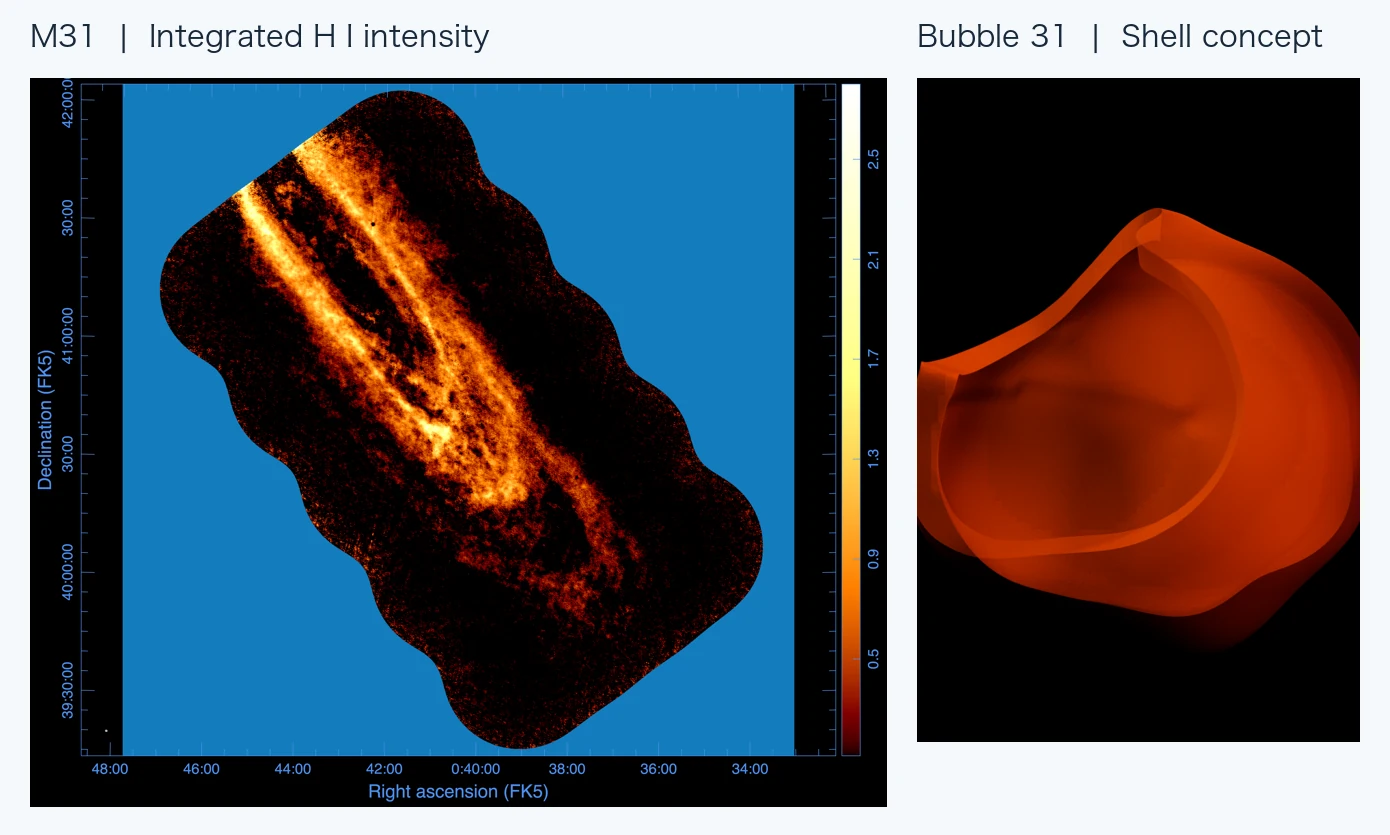
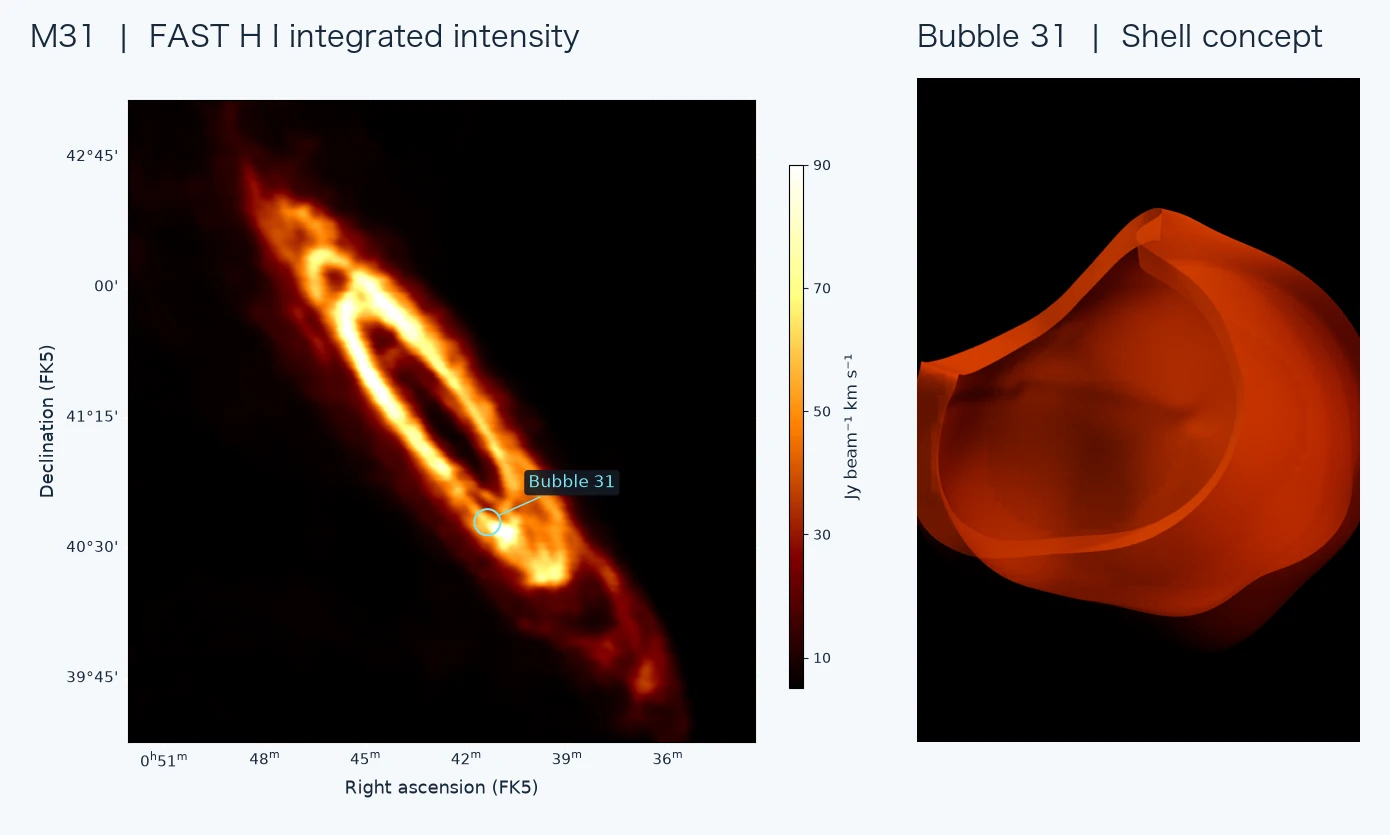
Use a FAST-only M31 locator map in the visualization spec

diff --git a/docs/m31-hi-visualization/README.md b/docs/m31-hi-visualization/README.md
@@ -1,14 +1,12 @@
 # Visualizing M31 H I superbubbles in 3D
 
-*Collaboration specification for the Bailes team · English discussion draft · 12 November 2026*
-
 The prototype is an interactive 3D viewer. A viewer should be able to locate a superbubble on an M31 H I map, open its local position–position–velocity (PPV) scene, and move freely around the shell to inspect it from the sides, above and below. The viewer can zoom into a feature, clip through the cavity and check it against the observed channels. Bubble 31 and Bubble 104 are the first examples. For each object, the viewer should be able to switch between the cavity inner wall and the outer bright ridge while keeping the current viewpoint.
 
-![M31 integrated H I intensity and the early Bubble 31 shell concept](figures/01-m31-and-bubble31.webp)
+![FAST H I integrated intensity of M31 with Bubble 31 marked, beside its early shell concept](figures/01-m31-and-bubble31.webp)
 
-**Figure 1. From the galaxy map to the shell.** The left panel is an integrated H I intensity map of M31, shown in CARTA. Blue marks the area outside the displayed coverage. The right panel is an early Blender concept for Bubble 31. Projected emission guides its detail, while the shell depth and cutaway are set for the illustration. The two panels use independent framing. In the prototype, the locator on the galaxy map comes from the catalogue position and the map world coordinate system (WCS). [Figure provenance](figure-sources.md#figure-1-m31-map-and-bubble-31-concept)
+**Figure 1. From the galaxy map to the shell.** The left panel shows the FAST-only integrated H I intensity of M31. The cyan circle marks the catalogue centre of Bubble 31. The right panel is an early Blender concept for Bubble 31. Projected emission guides its detail, while the shell depth and cutaway are set for the illustration. The two panels use independent framing. In the prototype, the locator on the galaxy map comes from the catalogue position and the map world coordinate system (WCS). [Figure provenance](figure-sources.md#figure-1-m31-map-and-bubble-31-concept)
 
-[中文讨论稿](README.zh-CN.md) · [Figure provenance and historical implementation](figure-sources.md)
+[中文](README.zh-CN.md) · [Figure provenance and historical implementation](figure-sources.md)
 
 ## Scope and interfaces
 

diff --git a/docs/m31-hi-visualization/README.zh-CN.md b/docs/m31-hi-visualization/README.zh-CN.md
@@ -1,14 +1,12 @@
 # M31 中性氢气泡三维可视化：开发规格与建模经验
 
-**中文讨论稿 v0.2 · 2026 年 11 月 12 日 · 面向 Bailes 团队**
-
 [English collaboration specification](README.md)
 
 首轮原型是一套交互式三维查看器。观众从 M31 H I 星系图上找到气泡后，可以绕气泡自由转动，从侧面、上方和下方观察，并缩放到感兴趣的部位。剖切和观测通道用于检查空洞和壳壁。建议先用 Bubble 31 和 104，查看时可在**空洞内壁**与**外围亮脊**之间切换，并保持当前视角。
 
-![M31 的 H I 积分强度图，以及 Bubble 31 的早期壳面展示](figures/01-m31-and-bubble31.webp)
+![FAST 的 M31 H I 积分强度图标出 Bubble 31 的位置，右侧为早期壳面概念模型](figures/01-m31-and-bubble31.webp)
 
-**图 1｜从星系定位到局部结构。** 左：M31 H I 积分强度图（CARTA 历史预览，蓝色为覆盖区外背景）；右：Bubble 31 早期 Blender 概念模型，由观测投影引导并设定壳深和剖开区域，用于展示开口与前后层次。两图为独立画幅。最终界面的定位框需用目录与观测图 WCS 计算，局部模型可放大并标注比例。[图件来源与制作方法](figure-sources.zh-CN.md)
+**图 1｜从星系定位到局部结构。** 左图为仅使用 FAST 数据绘制的 M31 H I 积分强度图，青色圆圈标记 Bubble 31 的目录中心。右图为 Bubble 31 早期 Blender 概念模型，由观测投影引导并设定壳深和剖开区域，用于展示开口与前后层次。两图为独立画幅。最终界面的定位框需用目录与观测图 WCS 计算，局部模型可放大并标注比例。[图件来源与制作方法](figure-sources.zh-CN.md)
 
 本文将 **历史结果** 与 **拟议实验** 分开。两条几何路线已有 Blender 资产；点、边缘、气泡邻域加密与 Unity 接入为首轮拟议实验。实现可由双方选择，比较使用共同的输入和判据。
 

diff --git a/docs/m31-hi-visualization/figure-sources.md b/docs/m31-hi-visualization/figure-sources.md
@@ -6,7 +6,7 @@ The WebP panels are included with the specification. DualVectra paths below iden
 
 ## Figure 1. M31 map and Bubble 31 concept
 
-- The M31 panel uses the original CARTA preview at `assets/cover/carta-references/c24full32_pbmergedD_jcomb_step240_k0000_0499_mom0_contsub_linefree_n4a2m30_full500.fits-image-2026-08-17-00-16-16.png`. It was resized proportionally with the sky axes and display colour bar intact. Locator coordinates for the prototype should come from the registered map WCS.
[1 lines of base64/hex data omitted]
 - The Bubble 31 panel uses `outputs/bubble31_blender/bubble31_shell_macro_v4_preview.png`, generated by `script/build_bubble31_shell_geometry.py`. Projected intensity guided surface detail and transparency. The shell depth, near-side opening and lighting were specified for the concept. Figures 2–4 use geometry constructed in observed PPV coordinates.
 
 ## Figure 2. Bubble 104 route comparison

diff --git a/docs/m31-hi-visualization/figure-sources.zh-CN.md b/docs/m31-hi-visualization/figure-sources.zh-CN.md
@@ -6,7 +6,7 @@
 
 ## 图 1｜M31 定位图与 Bubble 31
 
-- **观测预览：** `assets/cover/carta-references/c24full32_pbmergedD_jcomb_step240_k0000_0499_mom0_contsub_linefree_n4a2m30_full500.fits-image-2026-08-17-00-16-16.png`。原 CARTA 画面等比缩小，保留赤经、赤纬和显示色标。用它说明星系定位的界面用途。定位和测量应使用对齐后的观测 FITS 与其 WCS。
[1 lines of base64/hex data omitted]
 - **概念模型：** `outputs/bubble31_blender/bubble31_shell_macro_v4_preview.png`，生成脚本 `script/build_bubble31_shell_geometry.py`。投影强度引导局部表面细节和透明度；壳深、前侧窗口及灯光由模型设定。该画面用来讨论展示目标，图 2–4 的网格才按观测 VRAD 构造。
 
 ## 图 2｜Bubble 104 双路线
